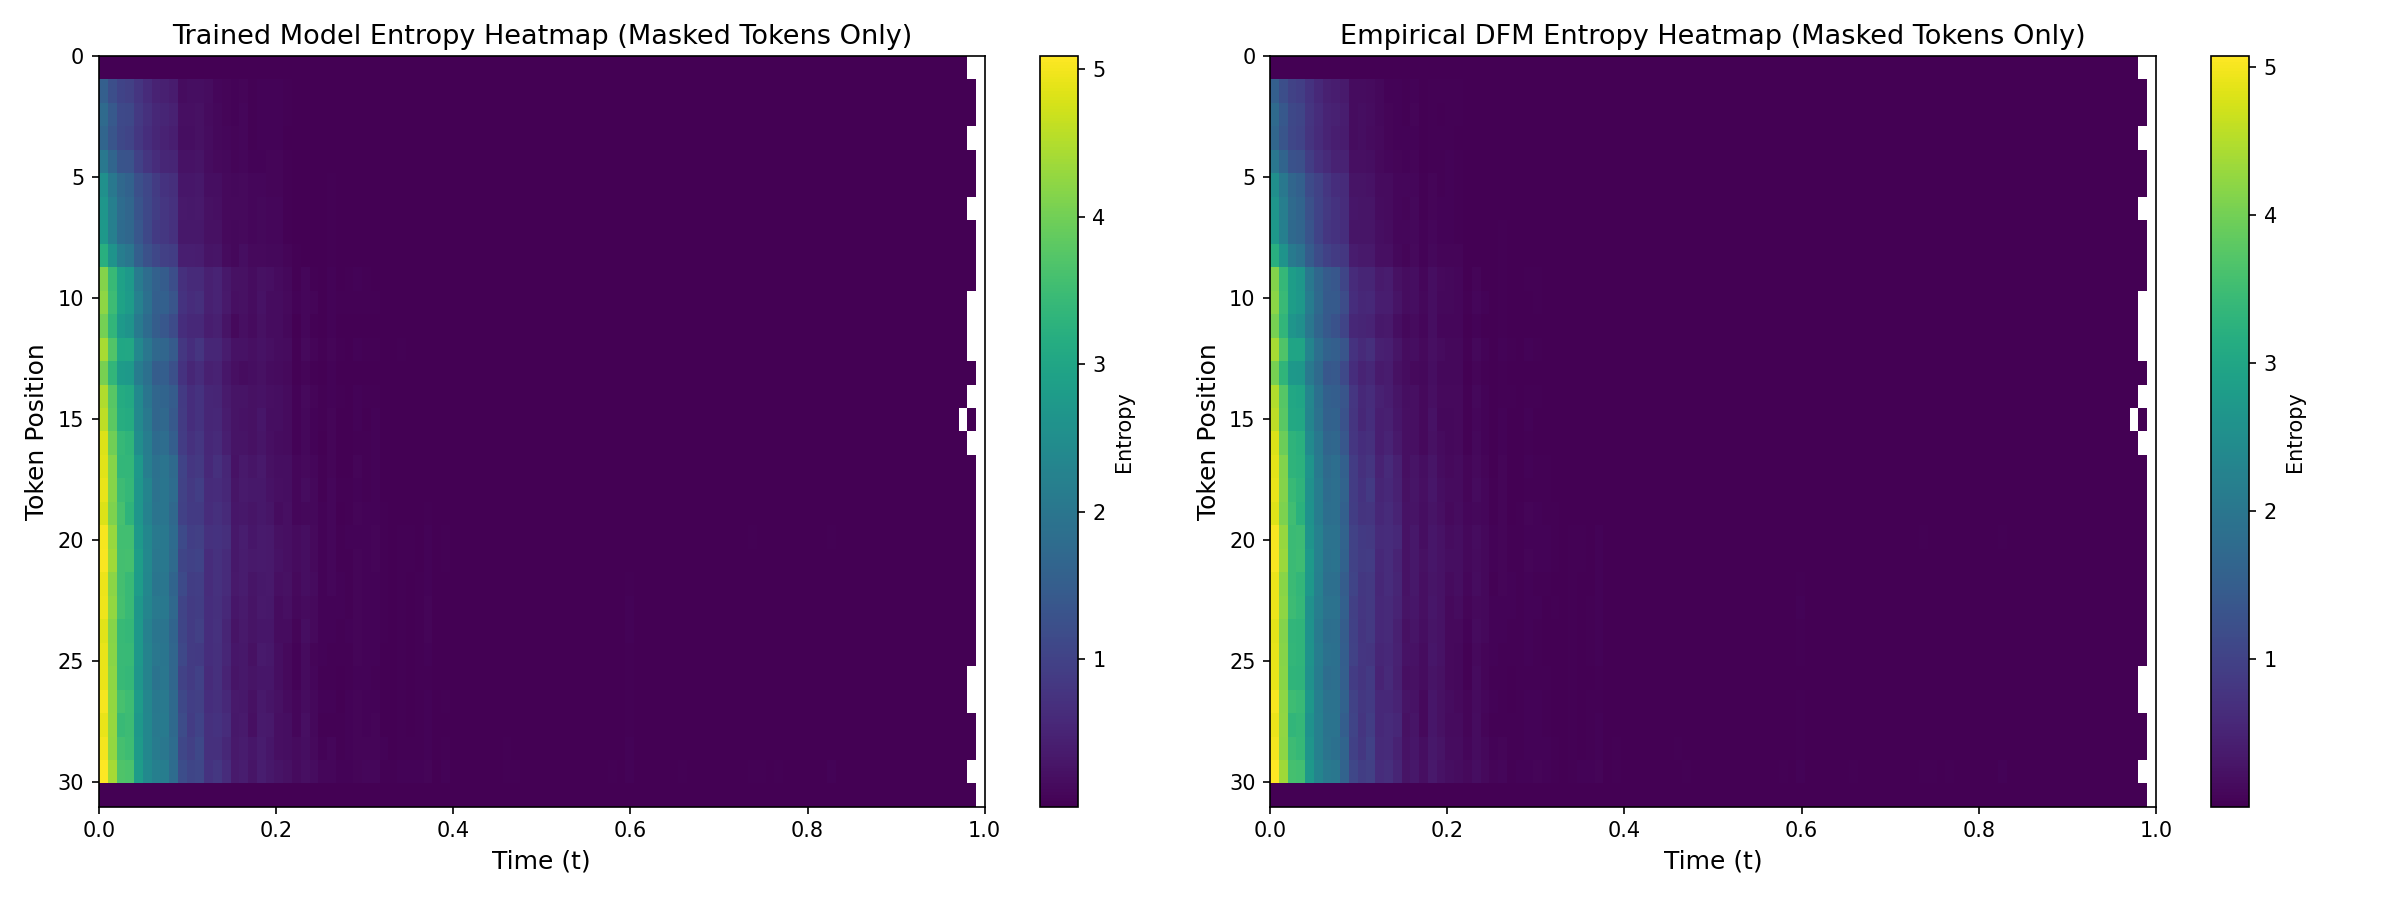
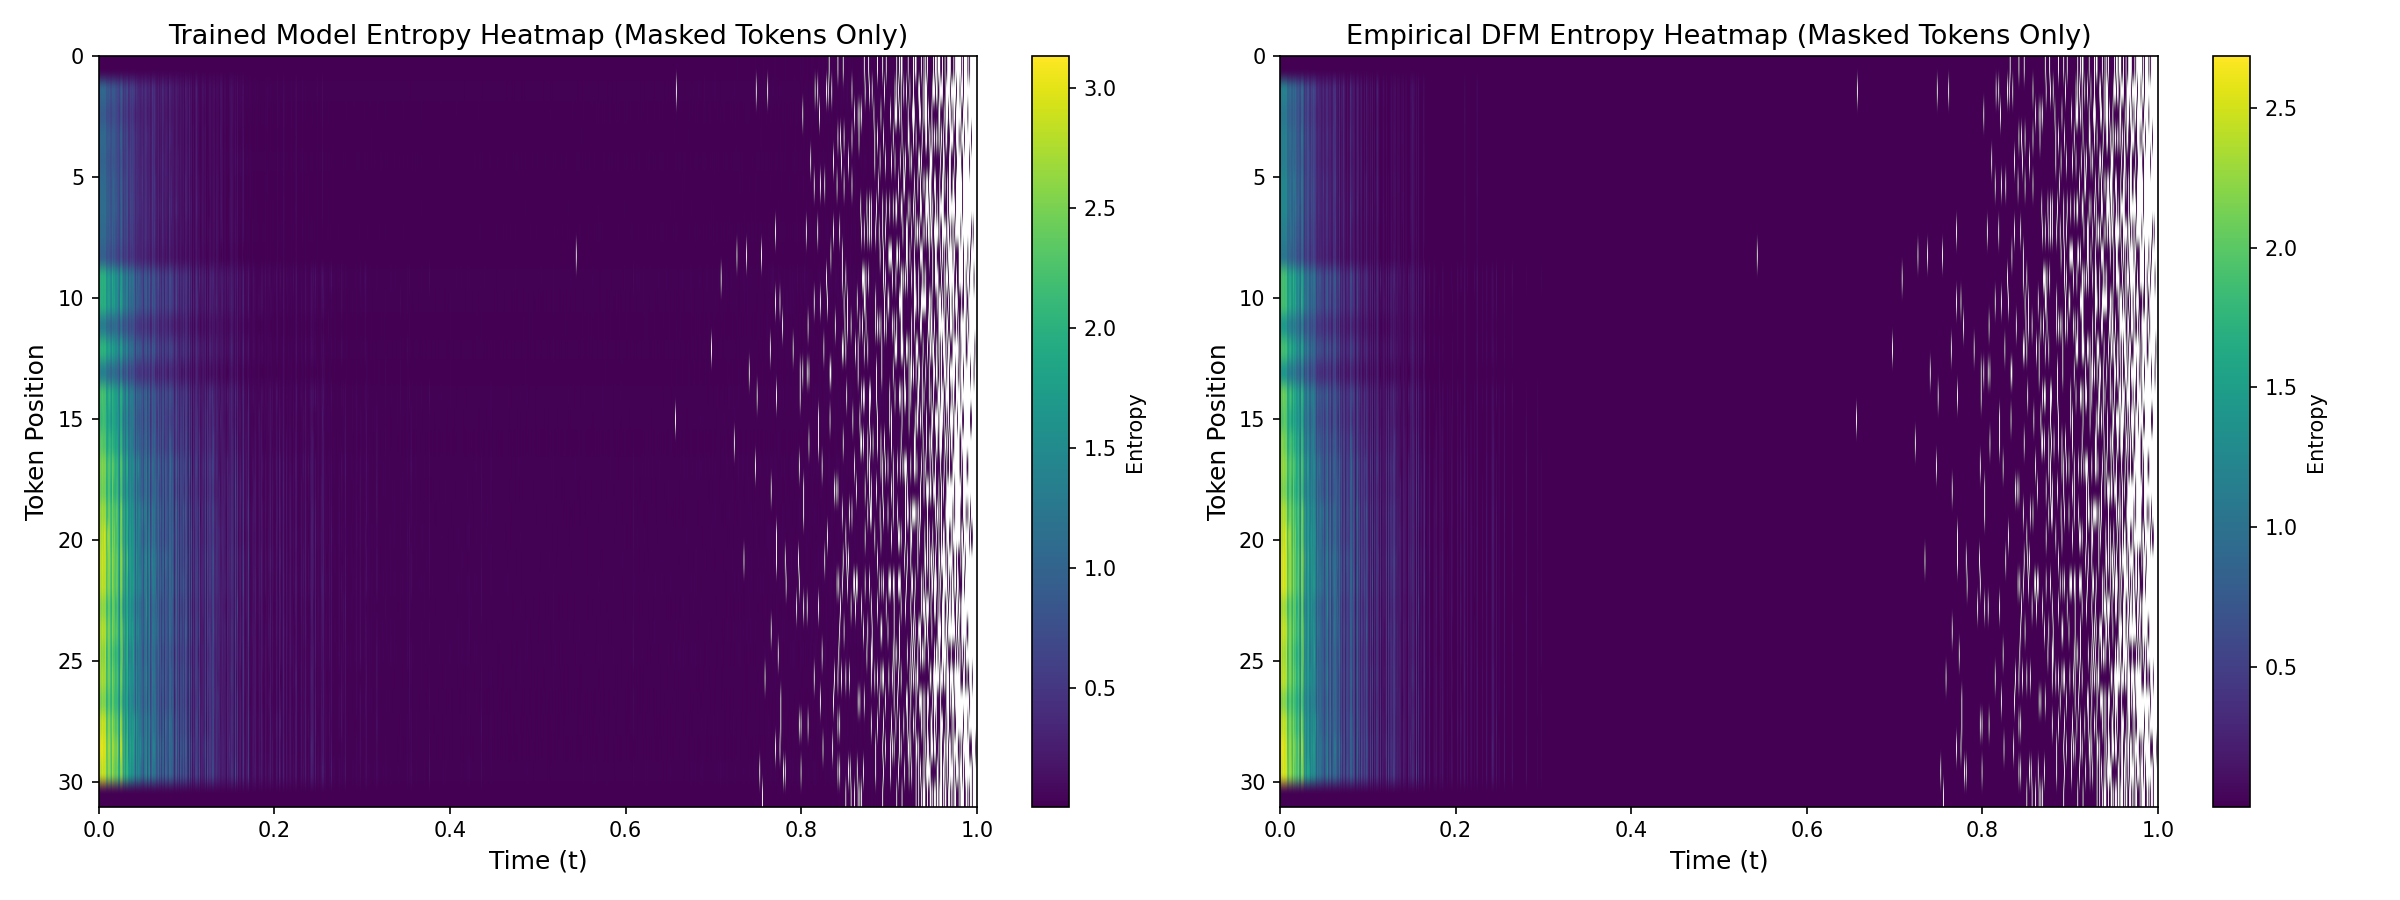
Update entropy analysis scripts and figures
- Modified `analyze_entropy_evolution.py` to change device settings and update model and dataset paths for improved performance.
- Adjusted `evaluate_hybrid_tau.py` and `test_hybrid_sampler.py` to reflect new dataset and model paths.
- Updated `train_camp_tinystories.py` to refine dataset handling and batch sizes for training.
- Replaced existing entropy figures with updated versions to reflect recent analysis changes.

diff --git a/scripts/analyze_entropy_evolution.py b/scripts/analyze_entropy_evolution.py
@@ -35,7 +35,7 @@ large_config = Config(
     timestep_scale=1000.0,
     debug=True,
     add_residual=True,
-    device="cuda" if torch.cuda.is_available() else "cpu",
+    device="cuda:2" if torch.cuda.is_available() else "cpu",
     seed=42,
 )
 config = large_config
@@ -68,7 +68,7 @@ def calculate_entropy(probabilities):
 # %%
 # Load trained model
 print("Loading trained model...")
-model_path = "/scratch/agumran/checkpoints/tinystories_campbell_masked_flow_1024_final_model.pt"
+model_path = "/scratch/agumran/checkpoints/tinystories_campbell_masked_flow_16_final_model.pt"
 model = IgnorantTransformer(config)
 model.load_state_dict(torch.load(model_path, map_location=config.device))
 model.to(config.device)
@@ -79,7 +79,7 @@ trained_fm = MaskedFMModel(config, model, mask_token_id=mask_token_id)
 # %%
 # Load dataset for EmpiricalDFM
 print("Loading dataset for EmpiricalDFM...")
-dataset_path = "/scratch/agumran/datasets/32_tok_tinystories_1024_dataset"
+dataset_path = "/scratch/agumran/datasets/32_tok_tinystories_16_dataset"
 dataset = load_from_disk(dataset_path).with_format("torch")
 dataloader = DataLoader(dataset, batch_size=10, shuffle=False)
 empirical_dfm = EmpiricalDFM(config, dataloader, mask_token_id=mask_token_id, 
@@ -88,7 +88,7 @@ empirical_dfm = EmpiricalDFM(config, dataloader, mask_token_id=mask_token_id,
 # %%
 # Get test examples
 print("Preparing test examples...")
-num_test_examples = 1024
+num_test_examples = 128
 test_indices = list(range(num_test_examples))
 test_tokens = torch.stack([dataset[i]['input_ids'].clone() for i in test_indices])
 test_tokens = test_tokens.to(config.device)
@@ -100,7 +100,7 @@ for i in range(num_test_examples):
 # %%
 # Analyze entropy evolution over time
 print("Analyzing entropy evolution...")
-timesteps = np.linspace(0, 1, 101)  # [0, 0.1, 0.2, ..., 1.0]
+timesteps = np.linspace(0, 1, 1001)  # [0, 0.001, 0.002, ..., 1.0]
 bs = test_tokens.shape[0]
 c = config.context_len
 

diff --git a/scripts/test_hybrid_sampler.py b/scripts/test_hybrid_sampler.py
@@ -46,7 +46,7 @@ torch.cuda.manual_seed_all(config.seed)
 # %%
 
 # Load dataset
-dataset_path = "/scratch/inath/datasets/tinystories_10_dataset"
+dataset_path = "/scratch/agumran/datasets/32_tok_tinystories_16_dataset"
 print(f"Loading dataset from {dataset_path}...")
 dataset = load_from_disk(dataset_path).with_format("torch")
 print(f"Dataset loaded: {len(dataset)} examples")
@@ -64,7 +64,7 @@ print(f"Mask token ID: {mask_token_id}")
 # Create config for empirical DFM (needs num_tokens and context_len)
 empirical_config = Config(
     num_tokens=tokenizer.vocab_size,
-    context_len=384,
+    context_len=32,
     device=config.device,
     seed=42,
 )
@@ -81,7 +81,7 @@ print("Created EmpiricalDFM with initial_type='mask'")
 # %%
 
 # Load trained model
-model_path = "/scratch/agumran/checkpoints/tinystories_campbell_masked_flow_full_final_model.pt"
+model_path = "/scratch/agumran/checkpoints/tinystories_campbell_masked_flow_16_final_model.pt"
 print(f"\nLoading trained model from {model_path}...")
 model = IgnorantTransformer(config)
 model.load_state_dict(torch.load(model_path, map_location=config.device))

diff --git a/scripts/evaluate_hybrid_tau.py b/scripts/evaluate_hybrid_tau.py
@@ -49,7 +49,7 @@ torch.cuda.manual_seed_all(config.seed)
 
 # %%
 # Load dataset
-dataset_path = "/scratch/agumran/datasets/32_tok_tinystories_1024_dataset"
+dataset_path = "/scratch/agumran/datasets/32_tok_tinystories_8192_dataset"
 print(f"Loading dataset from {dataset_path}...")
 dataset = load_from_disk(dataset_path).with_format("torch")
 print(f"Dataset loaded: {len(dataset)} examples")
@@ -100,7 +100,7 @@ print("Created EmpiricalDFM with initial_type='mask'")
 
 # %%
 # Load trained model
-model_path = "/scratch/agumran/checkpoints/tinystories_campbell_masked_flow_1024_final_model.pt"
+model_path = "/scratch/agumran/checkpoints/tinystories_campbell_masked_flow_8192_final_model.pt"
 print(f"\nLoading trained model from {model_path}...")
 model = IgnorantTransformer(config)
 model.load_state_dict(torch.load(model_path, map_location=config.device))

diff --git a/scripts/train_camp_tinystories.py b/scripts/train_camp_tinystories.py
@@ -32,7 +32,7 @@ small_config = Config(
     timestep_scale=1000.0,
     debug=True,
     add_residual=True,
-    device="cuda" if torch.cuda.is_available() else "cpu",
+    device="cuda:2" if torch.cuda.is_available() else "cpu",
     seed=42,
 )
 
@@ -48,7 +48,7 @@ large_config = Config(
     timestep_scale=1000.0,
     debug=True,
     add_residual=True,
-    device="cuda" if torch.cuda.is_available() else "cpu",
+    device="cuda:2" if torch.cuda.is_available() else "cpu",
     seed=42,
 )
 
@@ -106,9 +106,9 @@ def test_dataloader():
 
 # %%
 
-subset_size = 4096
+subset_size = 16
 # subset_size = None
-batch_size = 128
+batch_size = 16
 # total_steps = 100_000
 save_path = f"/scratch/agumran/datasets/32_tok_tinystories_{subset_size or 'full'}_dataset"
 dataloader = make_tinystories_dataloader(

diff --git a/README.md b/README.md
@@ -1,0 +1,227 @@
+# Discrete Flow Matching for Text Generation
+
+This repository contains an implementation of discrete flow matching techniques applied to text generation tasks, specifically focusing on the TinyStories dataset. The project explores the development and evaluation of discrete flow matching models, including experiments on hybrid flow matching approaches that combine empirical discrete flow matching with trained models.
+
+## Project Overview
+
+The primary objective of this project is to implement discrete flow matching methods and conduct experiments to assess their effectiveness in text generation. Discrete flow matching extends continuous flow matching paradigms to discrete state spaces, enabling non-autoregressive generation of high-quality text. This work includes:
+
+- Implementation of Campbell et al. discrete flow models with masked and uniform noise schedules
+- Empirical discrete flow matching that leverages training data distributions
+- Hybrid flow matching that combines empirical and trained models
+- General flow framework based on Gat et al. with flexible probability paths and schedulers
+
+## Key Features
+
+### Core Implementations
+
+- **Campbell Flow Models** (`src/flow/campbell_flow.py`): Implementation of masked and uniform flow matching models following Campbell et al. (2024). Includes `MaskedFMModel` and `UniformFMModel` classes that define probability paths from noise distributions to data distributions.
+
+- **Empirical Discrete Flow Matching** (`src/flow/empirical_dfm.py`): A data-driven approach that computes flow velocities directly from the training dataset. This module provides `EmpiricalDFM` class that can use masked or uniform initial distributions.
+
+- **Hybrid Flow Matching** (`src/flow/hybrid_flow.py`): Novel approach combining empirical DFM for early stages of generation with trained models for final stages. The `HybridMaskedSampler` class allows switching between empirical and trained models at a configurable time point `tau`.
+
+- **General Flow Framework** (`src/flow/general_flow.py`): Implementation of the general flow matching framework from Gat et al. (2024), supporting multiple probability paths, weight schedulers, and corrector schedulers for improved generation quality.
+
+- **Transformer Architectures** (`src/flow/transformer.py`): Custom transformer implementations including `IgnorantTransformer`, `TimeAwareTransformer`, and `SmallModel` designed for flow matching tasks with timestep embeddings.
+
+### Evaluation Tools
+
+- **Evaluation Module** (`src/flow/eval.py`): Comprehensive evaluation tools including `SentenceBERTEvaluator` for measuring semantic similarity between generated and training samples, and perplexity evaluation using language models.
+
+## Repository Structure
+
+```
+flow/
+├── src/flow/              # Core implementation modules
+│   ├── campbell_flow.py   # Campbell et al. flow models
+│   ├── empirical_dfm.py   # Empirical discrete flow matching
+│   ├── hybrid_flow.py     # Hybrid flow matching sampler
+│   ├── general_flow.py    # General flow framework (Gat et al.)
+│   ├── transformer.py     # Transformer architectures
+│   ├── eval.py            # Evaluation utilities
+│   └── utils.py           # Configuration and utilities
+├── scripts/               # Training and evaluation scripts
+│   ├── train_camp_tinystories.py           # Training script for Campbell flow
+│   ├── train_gat_tinystories.py            # Training script for Gat flow
+│   ├── evaluate_model.py                   # Model evaluation
+│   ├── evaluate_hybrid_tau.py             # Hybrid sampler experiments
+│   ├── analyze_entropy_evolution.py        # Entropy analysis
+│   └── test_hybrid_sampler.py              # Hybrid sampler testing
+├── figures/               # Generated visualizations
+│   ├── entropy_heatmap.png
+│   ├── entropy_vs_time_average.png
+│   ├── entropy_vs_time_positions.png
+│   ├── entropy_difference.png
+│   └── tau_vs_distance.png
+├── results/               # Experimental results and data
+└── pyproject.toml         # Project dependencies
+```
+
+## Requirements and Setup
+
+### Python Version
+
+This project requires Python 3.11 (specifically `>=3.11, <3.12`).
+
+### Dependencies
+
+Install dependencies using pip:
+
+```bash
+pip install torch transformers datasets tqdm numpy einops matplotlib wandb sentence-transformers
+```
+
+Or install from the project configuration:
+
+```bash
+pip install -e .
+```
+
+### Key Dependencies
+
+- `torch`: PyTorch for deep learning
+- `transformers`: Hugging Face transformers for tokenizers and models
+- `datasets`: Dataset loading and processing
+- `sentence-transformers`: For semantic similarity evaluation
+- `wandb`: Experiment tracking (optional)
+
+## Usage Examples
+
+### Training a Campbell Flow Model
+
+Train a masked flow matching model on TinyStories:
+
+```python
+from flow.transformer import IgnorantTransformer
+from flow.utils import Config
+from flow.campbell_flow import MaskedFMModel
+from transformers import AutoTokenizer
+
+# Setup configuration
+tokenizer = AutoTokenizer.from_pretrained("roberta-base")
+config = Config(
+    num_tokens=len(tokenizer),
+    embed_dim=512,
+    mlp_dim=2048,
+    context_len=32,
+    num_layers=16,
+    device="cuda" if torch.cuda.is_available() else "cpu",
+)
+
+# Create model
+model = IgnorantTransformer(config)
+flow_model = MaskedFMModel(config, model, mask_token_id=tokenizer.mask_token_id)
+
+# Training loop (see scripts/train_camp_tinystories.py for full example)
+```
+
+### Sampling from a Trained Model
+
+Generate text samples using a trained flow model:
+
+```python
+# Load trained model
+model.load_state_dict(torch.load("checkpoints/model.pt"))
+flow_model.eval()
+
+# Generate samples
+with torch.inference_mode():
+    samples = flow_model.sample(bs=10, dt=0.001, temperature=1.0)
+    
+# Decode to text
+for sample in samples:
+    text = tokenizer.decode(sample.cpu().numpy(), skip_special_tokens=True)
+    print(text)
+```
+
+### Hybrid Flow Matching
+
+Use hybrid sampling that combines empirical and trained models:
+
+```python
+from flow.hybrid_flow import HybridMaskedSampler
+from flow.empirical_dfm import EmpiricalDFM
+from torch.utils.data import DataLoader
+
+# Setup empirical DFM
+dataloader = DataLoader(dataset, batch_size=10, shuffle=False)
+empirical_dfm = EmpiricalDFM(
+    config, 
+    dataloader, 
+    mask_token_id=tokenizer.mask_token_id,
+    initial_type="mask"
+)
+
+# Create hybrid sampler
+hybrid_sampler = HybridMaskedSampler(config, empirical_dfm, trained_model)
+
+# Sample with tau=0.5 (switch from empirical to trained at midpoint)
+samples = hybrid_sampler.sample(bs=10, tau=0.5, dt=0.001)
+```
+
+### Evaluating Model Quality
+
+Evaluate generated samples using semantic similarity:
+
+```python
+from flow.eval import SentenceBERTEvaluator
+
+evaluator = SentenceBERTEvaluator(device=config.device)
+distances, closest_indices = evaluator.calculate_distance_batch(generated_texts)
+print(f"Mean distance to training set: {distances.mean():.4f}")
+```
+
+## Experiments
+
+### Entropy Evolution Analysis
+
+The project includes analysis of entropy evolution throughout the flow matching process, comparing empirical DFM and trained Campbell flow models. Results are visualized in:
+
+- `figures/entropy_heatmap.png`: Entropy heatmap across positions and timesteps
+- `figures/entropy_vs_time_average.png`: Average entropy over time
+- `figures/entropy_vs_time_positions.png`: Entropy evolution at different positions
+- `figures/entropy_difference.png`: Difference between empirical and trained models
+
+Run the analysis:
+
+```bash
+python scripts/analyze_entropy_evolution.py
+```
+
+### Hybrid Sampler Tau Evaluation
+
+Experiments evaluate the effect of the transition point `tau` in hybrid flow matching, measuring the distance of generated samples to the training dataset. Results show how different `tau` values affect generation quality:
+
+- `figures/tau_vs_distance.png`: Visualization of distance vs tau values
+- `results/tau_distance_data.pt`: Raw experimental data
+
+Run the evaluation:
+
+```bash
+python scripts/evaluate_hybrid_tau.py
+```
+
+## References
+
+This work builds upon the following foundational papers:
+
+1. **Gat, I., Remez, T., Shaul, N., Kreuk, F., Chen, R. T. Q., Synnaeve, G., Adi, Y., & Lipman, Y. (2024).** Discrete Flow Matching. *arXiv preprint arXiv:2407.15595*.  
+   [Paper](https://arxiv.org/pdf/2407.15595)
+
+2. **Campbell, A., et al. (2024).** Generative Flows on Discrete State-Spaces. *arXiv preprint arXiv:2402.04997*.  
+   [Paper](https://arxiv.org/pdf/2402.04997)
+
+## Project Status
+
+This project is currently in the proof of concept/experimental phase. The implementation includes core discrete flow matching methods and initial experiments on the TinyStories dataset. Ongoing work includes:
+
+- Refining model architectures and training procedures
+- Conducting comprehensive evaluations of hybrid flow matching
+- Exploring different probability paths and schedulers
+- Analyzing the trade-offs between empirical and trained models
+
+## Acknowledgments
+
+We acknowledge the authors of the referenced papers for their foundational contributions to discrete flow matching and text generation. Their theoretical frameworks and algorithmic insights have been instrumental in guiding this implementation.
+
